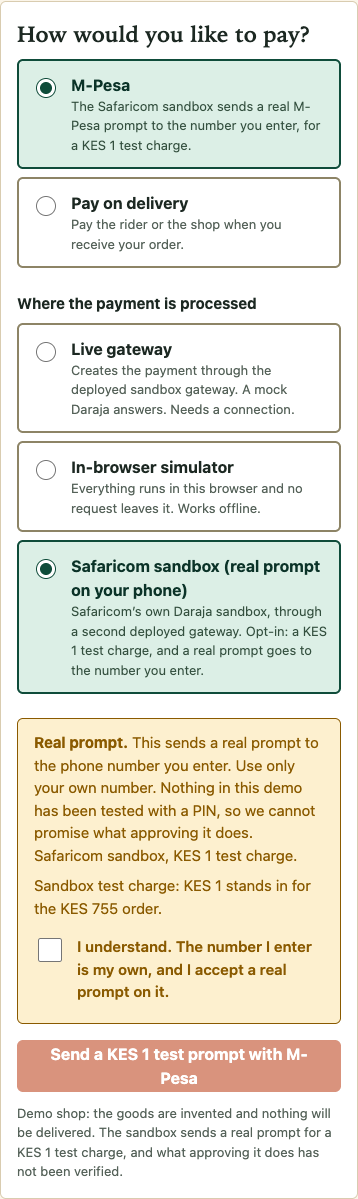
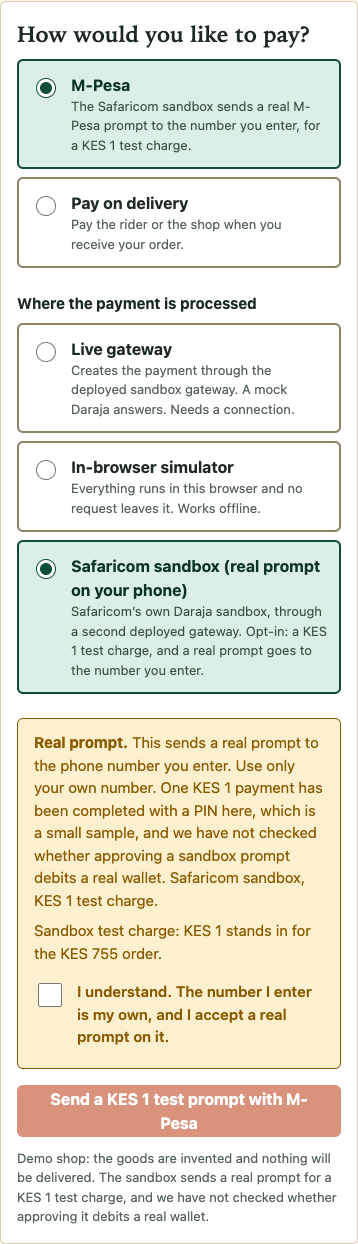
Update the sandbox docs and screenshots for the completed payment

Changed region(s): [[0.0307, 0.0, 0.9525, 0.9875]]

diff --git a/README.md b/README.md
@@ -11,7 +11,7 @@ A fast, accessible, mobile-first shop front-end for a small Kenyan retailer, wit
 ![Vite](https://img.shields.io/badge/Vite-8-646cff)
 ![PWA](https://img.shields.io/badge/PWA-offline%20shell-5a0fc8)
 
-> **Static demo, invented data, sandbox payments.** The shop, products, prices and stock are fictional ("Mama Lucy's Provisions & Homeware"). By default the checkout creates its payments on a **live sandbox gateway** ([mpesa-gateway](https://github.com/Victor-Wambua/mpesa-gateway)) whose Daraja side is a **mock**: the payment record, idempotency, status checks and ledger are real, the M-Pesa prompt is not. With those two defaults (the mock-Daraja gateway and the in-browser simulator in `src/mock/`, the offline fallback) no real prompt is sent to any phone, no call is made to Safaricom and no money moves. There is also a **third, opt-in choice that is different**: a Safaricom sandbox provider that sends a **real M-Pesa prompt** to the number you type, for a flat KES 1 test charge, behind a warning and an acknowledgement. Nothing in this demo has been tested with a PIN, so what approving that prompt does is not verified (details under [Live gateway](#live-gateway)). Status: portfolio build.
+> **Static demo, invented data, sandbox payments.** The shop, products, prices and stock are fictional ("Mama Lucy's Provisions & Homeware"). By default the checkout creates its payments on a **live sandbox gateway** ([mpesa-gateway](https://github.com/Victor-Wambua/mpesa-gateway)) whose Daraja side is a **mock**: the payment record, idempotency, status checks and ledger are real, the M-Pesa prompt is not. With those two defaults (the mock-Daraja gateway and the in-browser simulator in `src/mock/`, the offline fallback) no real prompt is sent to any phone, no call is made to Safaricom and no money moves. There is also a **third, opt-in choice that is different**: a Safaricom sandbox provider that sends a **real M-Pesa prompt** to the number you type, for a flat KES 1 test charge, behind a warning and an acknowledgement. One KES 1 payment has been completed with a PIN there (a small sample), and whether approving a sandbox prompt debits a real wallet has not been checked (details under [Live gateway](#live-gateway)). Status: portfolio build.
 
 ![Shop, dark mode](docs/screenshots/02-shop-desktop-dark.png)
 
@@ -95,13 +95,13 @@ The checkout has a **payment provider switch** (in the payment section of the fo
 
 ### The Safaricom sandbox provider
 
-- **Opt-in only.** The default stays the mock-Daraja gateway. Choosing the sandbox shows, before checkout: "This sends a real prompt to the phone number you enter. Use only your own number. Nothing in this demo has been tested with a PIN, so we cannot promise what approving it does. Safaricom sandbox, KES 1 test charge." The pay button stays disabled until an acknowledgement box is ticked. The tick is **never saved** (the provider choice is, the tick is not) and is cleared each time a prompt is sent, so a retry goes back through the form and it has to be ticked again.
+- **Opt-in only.** The default stays the mock-Daraja gateway. Choosing the sandbox shows, before checkout: "This sends a real prompt to the phone number you enter. Use only your own number. One KES 1 payment has been completed with a PIN here, which is a small sample, and we have not checked whether approving a sandbox prompt debits a real wallet. Safaricom sandbox, KES 1 test charge." The pay button stays disabled until an acknowledgement box is ticked. The tick is **never saved** (the provider choice is, the tick is not) and is cleared each time a prompt is sent, so a retry goes back through the form and it has to be ticked again.
 - **Flat KES 1.** Carts are larger than the sandbox cap, so the sandbox is always asked for KES 1. The checkout panel, the confirmation and the receipt say "Sandbox test charge: KES 1 stands in for the KES 620 order" (with the real order total). The order is marked paid only when the gateway reports `succeeded`, and is then labelled **paid (sandbox test)**.
 - **Phone.** No pre-filled number and no sample number as a placeholder. The number is validated with the same helper as the rest of the checkout and is stored with the order exactly as before (the receipt masks it). It is never logged.
 - **States, from the gateway's real states.** Pending ("Check your phone for an M-Pesa prompt and enter your PIN to approve it, or cancel it. This can take up to 2.5 minutes."), cancelled (ResultCode 1032), timed out ("No response in time", ResultCode 1037), failed (with the Daraja description), held for review (never marked paid, with an explanation) and succeeded. Polling is the same as the mock gateway's (backoff, paused while the page is hidden, `Retry-After` honoured), but the wait window is 210 s because the gateway's prompt timeout is 150 s. A 1037 from Safaricom is treated as final; only a timeout the gateway decided on its own is watched for a late result.
 - **When it cannot be used.** `403 phone_not_approved` (an owner-opt-in restriction: the sandbox may accept only approved numbers) says the sandbox is restricted and offers the mock gateway. Unreachable, `429` (with a countdown) and a cap error say so and offer the mock gateway, the in-browser simulator and pay on delivery. If `GET /v1/config` reports `phone_policy: approved_numbers_only`, the form says so up front.
-- **What was observed with the real sandbox** (by the owner, with their own phone): the sandbox did send a real STK prompt. Real outcomes seen were **ResultCode 1032** (cancelled by the customer, callback after about 8 s) and **ResultCode 1037** (no response, callback after about 26 s; the gateway maps it to `timed_out`).
-- **What was NOT observed.** **No payment has ever been completed with a PIN**, so a real success from the sandbox is unobserved, and what a sandbox success does, including whether it could debit a real wallet, is **not verified**. The tests below cover the success path only against a stubbed gateway. The success screen and the receipt say this.
+- **What was observed with the real sandbox** (by the owner, with their own phone): the sandbox did send a real STK prompt. Real outcomes seen were **ResultCode 1032** (cancelled by the customer, callback after about 8 s) and **ResultCode 1037** (no response, callback after about 26 s; the gateway maps it to `timed_out`). The owner has also completed **one** payment with a PIN (KES 1, their own number, 2026-11-28): the success callback (`ResultCode 0`, a real receipt) arrived 9 s after the push, the gateway's STK Query answered `500.001.1001` with an empty message the first time and `ResultCode 0` the second, and only then did the gateway mark it `succeeded` and post a balanced journal entry. This storefront has not been used for a PIN payment; that one went through the gateway directly.
+- **What is NOT established.** That is **one payment, a small sample**. **This project has not checked whether a sandbox success debits a real wallet.** The checkout's success screen and receipt say so, and the acknowledgement still warns that the prompt reaches a real phone. The tests below cover this storefront's success path only against a stubbed gateway.
 - **Payment ids.** The sandbox's ids look like the mock's (`pay_...`), so the app tags the ones it gets from the sandbox (`sbx:pay_...`) in its own storage, which is how a reload or a later order lookup goes back to the right host. The screen and the receipt show the gateway's own id, and the inspector link points at the sandbox instance's inspector.
 
 How the storefront uses it:
@@ -175,7 +175,7 @@ Last full run on this repo: **360 Vitest tests in 18 files, all passing; 26 Play
 | Controller (fake timers) | backoff schedule, deadline, offline pause, reload resume, stale replies, cancel then retry |
 | Mock service | every simulator outcome, idempotency, no stacked prompts, already-paid |
 | Live gateway client and service | request and header shapes, `Retry-After`, every error mapped, timeouts, every status mapped (only `succeeded` is success), lookup by reference, routing by payment id |
-| Safaricom sandbox (stubbed `fetch` and `page.route`) | the flat KES 1 rule and its wording, no `scenario` sent, id tagging and routing, 403 `phone_not_approved`, 429, unreachable, 1032 and 1037 endings, a success (a stand-in: a real one has never been observed), `needs_review` never paid, acknowledgement required and never saved, scenario picker hidden, default provider unchanged, no request without a phone number, axe |
+| Safaricom sandbox (stubbed `fetch` and `page.route`) | the flat KES 1 rule and its wording, no `scenario` sent, id tagging and routing, 403 `phone_not_approved`, 429, unreachable, 1032 and 1037 endings, a success (against a stubbed gateway, not a real payment), `needs_review` never paid, acknowledgement required and never saved, scenario picker hidden, default provider unchanged, no request without a phone number, axe |
 | Live gateway checkout (stubbed `fetch`) | reference and Idempotency-Key, double click and reload, each ending's copy, late success and disagreement held for review and never paid, unreachable, rate limited, over the cap, scenario picker, order lookup, axe |
 | Cart and persistence | reducer, stock limits, v1 to v2 schema migration, corrupt and future-version data |
 | Components (Testing Library) | search, filters, variants, drawer focus, steppers, promo, every checkout state, offline, pay on delivery, order lookup |
@@ -218,13 +218,13 @@ The router is a hash router on purpose: it works on static hosting under any sub
 
 ## Status and roadmap
 
-Portfolio build. Everything described above exists and is tested. What is **real**: the payments gateway the checkout calls by default, its idempotency, state machine, verification and ledger. What is **mocked**: the shop, products and stock; Daraja behind the default gateway (callbacks, the handset, receipt codes starting `MOCK`); and the in-browser simulator (receipt codes starting `SIM`). The opt-in Safaricom sandbox provider is real on the Daraja side: it has sent a real prompt to the owner's own phone, and two real outcomes (1032 cancelled, 1037 no response) have been seen and match what the checkout expects. **No payment has ever been completed with a PIN**, so a real sandbox success is unobserved and its effect on a real wallet is not verified; other result codes follow what I know of Daraja's STK callback and were not checked.
+Portfolio build. Everything described above exists and is tested. What is **real**: the payments gateway the checkout calls by default, its idempotency, state machine, verification and ledger. What is **mocked**: the shop, products and stock; Daraja behind the default gateway (callbacks, the handset, receipt codes starting `MOCK`); and the in-browser simulator (receipt codes starting `SIM`). The opt-in Safaricom sandbox provider is real on the Daraja side: it has sent a real prompt to the owner's own phone, and two real outcomes (1032 cancelled, 1037 no response) have been seen and match what the checkout expects, and the owner has completed one KES 1 payment with a PIN through the gateway (a small sample, not run through this storefront). Whether a sandbox success debits a real wallet has not been checked; other result codes follow what I know of Daraja's STK callback and were not checked.
 
 Known limits: orders live in one browser only; stock is a local ledger, not a shared inventory; there are no user accounts; the delivery fees and promo codes are samples; the search is a small hand-written matcher, fine for a few hundred products, not thousands.
 
 Next steps:
 
-1. Complete a sandbox payment with a PIN on the owner's own number, record exactly what happens (including to the wallet), and verify the remaining result codes.
+1. Complete a sandbox payment with a PIN through this storefront on the owner's own number, check what it does to the wallet, and verify the remaining result codes.
 2. Server-side orders and stock reservation, so two shoppers cannot buy the last item.
 3. Swahili translation.
 4. Web push for "your order is on its way".

diff --git a/docs/CASE-STUDY.md b/docs/CASE-STUDY.md
@@ -21,7 +21,7 @@ Small retailers feel this as lost money and support calls: a spinner that never 
 
 - A real shop backend, inventory or live payments. The shop is fictional. By default payments go to a live sandbox gateway whose Daraja side is a mock (or to an in-browser simulator offline). An opt-in third choice sends a real prompt through Safaricom's Daraja sandbox for a flat KES 1 test charge.
 - Accounts, reviews, admin screens.
-- Proving how the live Daraja API behaves beyond what was observed. The mock models the shape of the problem; the sandbox option has been seen to cancel and to time out, and has never been completed with a PIN.
+- Proving how the live Daraja API behaves beyond what was observed. The mock models the shape of the problem; the sandbox option has been seen to cancel, to time out, and (once, a small sample) to succeed with a PIN.
 
 ## What I built
 
@@ -95,4 +95,4 @@ The callback is the source of truth in production; polling is a fallback. In the
 
 ## Status
 
-Portfolio build. It runs locally and as a static demo with sample data. The shop, products, prices, stock, delivery fees and promo codes are simulated. By default payments are created on a live sandbox gateway whose Daraja side is a mock: the handset, the callbacks and the receipt codes (`MOCK...`, or `SIM...` from the browser simulator) are synthetic, and no money moves. The opt-in Safaricom sandbox provider is different: it is not simulated. It has sent a real prompt to the owner's own phone, and the real results seen were ResultCode 1032 (cancelled by the customer, callback after about 8 seconds) and 1037 (no response, callback after about 26 seconds, mapped to timed out). No payment has ever been completed with a PIN there, so a real sandbox success is unobserved, and what one does, including whether it could debit a real wallet, is not verified. Its success path is covered only by tests against a stubbed gateway.
+Portfolio build. It runs locally and as a static demo with sample data. The shop, products, prices, stock, delivery fees and promo codes are simulated. By default payments are created on a live sandbox gateway whose Daraja side is a mock: the handset, the callbacks and the receipt codes (`MOCK...`, or `SIM...` from the browser simulator) are synthetic, and no money moves. The opt-in Safaricom sandbox provider is different: it is not simulated. It has sent a real prompt to the owner's own phone, and the real results seen were ResultCode 1032 (cancelled by the customer, callback after about 8 seconds) and 1037 (no response, callback after about 26 seconds, mapped to timed out). The owner has completed one KES 1 payment with a PIN through the gateway (success callback after 9 seconds with ResultCode 0, confirmed by the gateway's STK Query on the second try, then marked succeeded with a balanced journal). That is a single payment, a small sample, and it was not run through this storefront. This project has not checked whether a sandbox success debits a real wallet. The storefront's success path is covered only by tests against a stubbed gateway.
